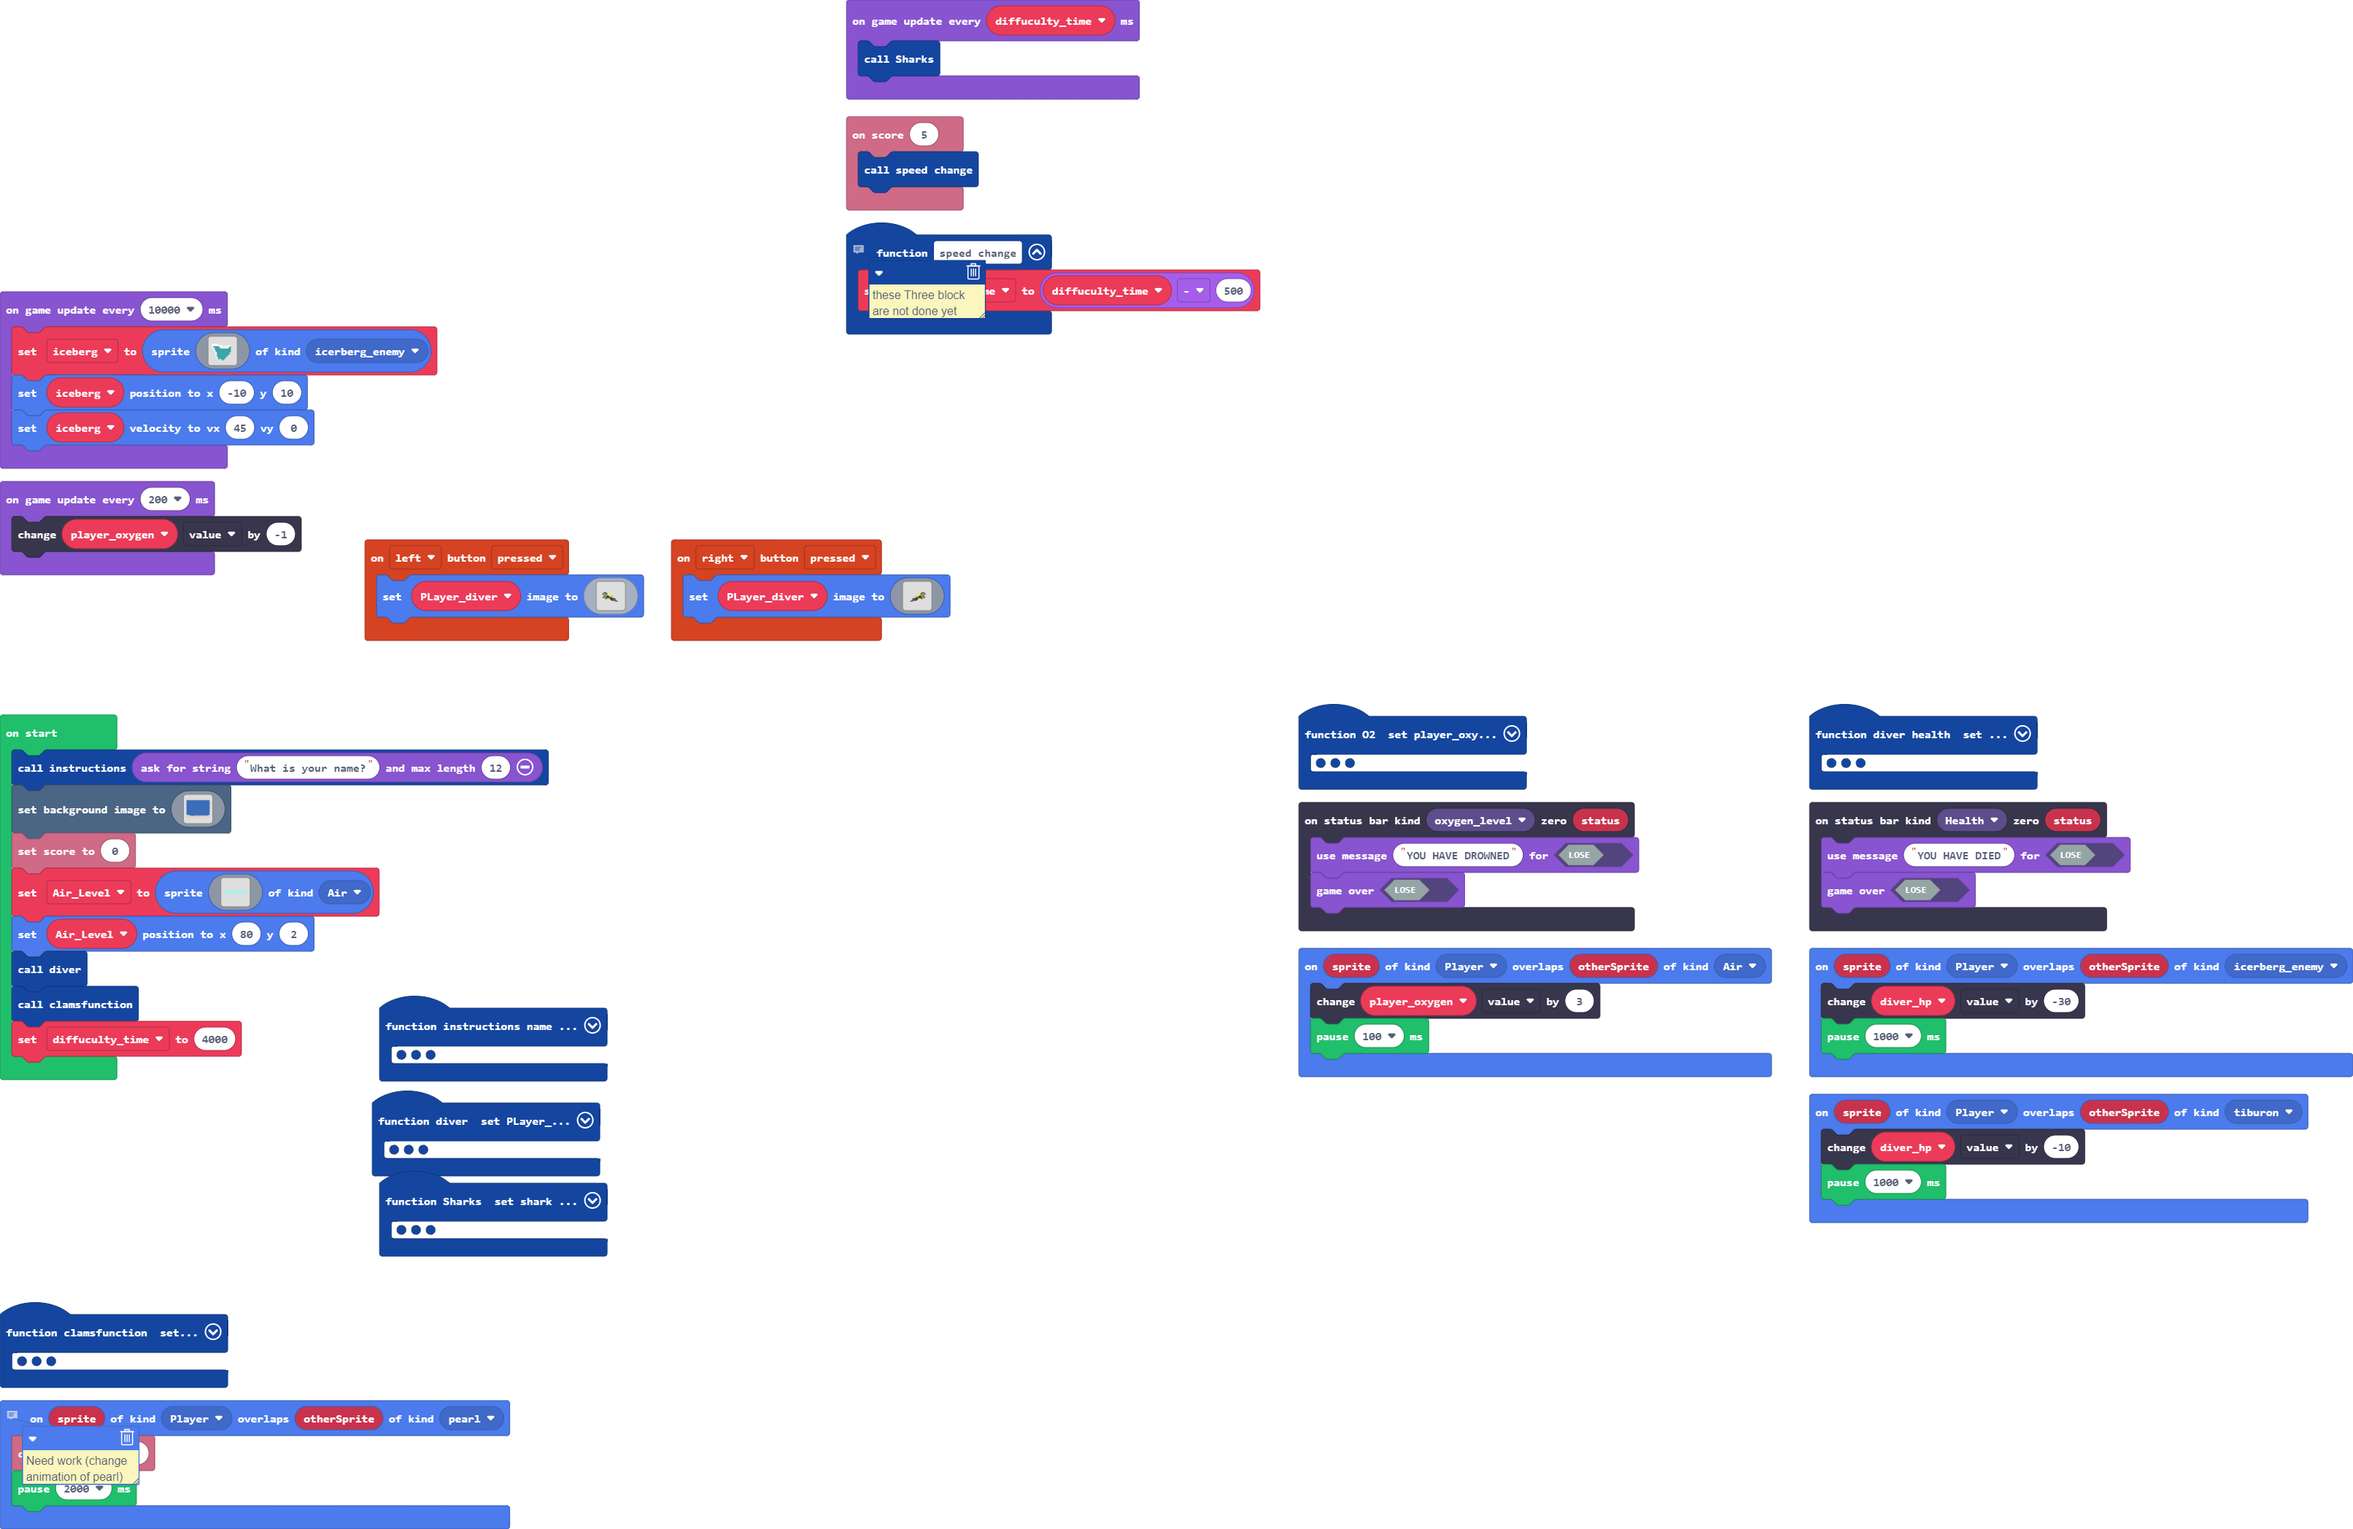
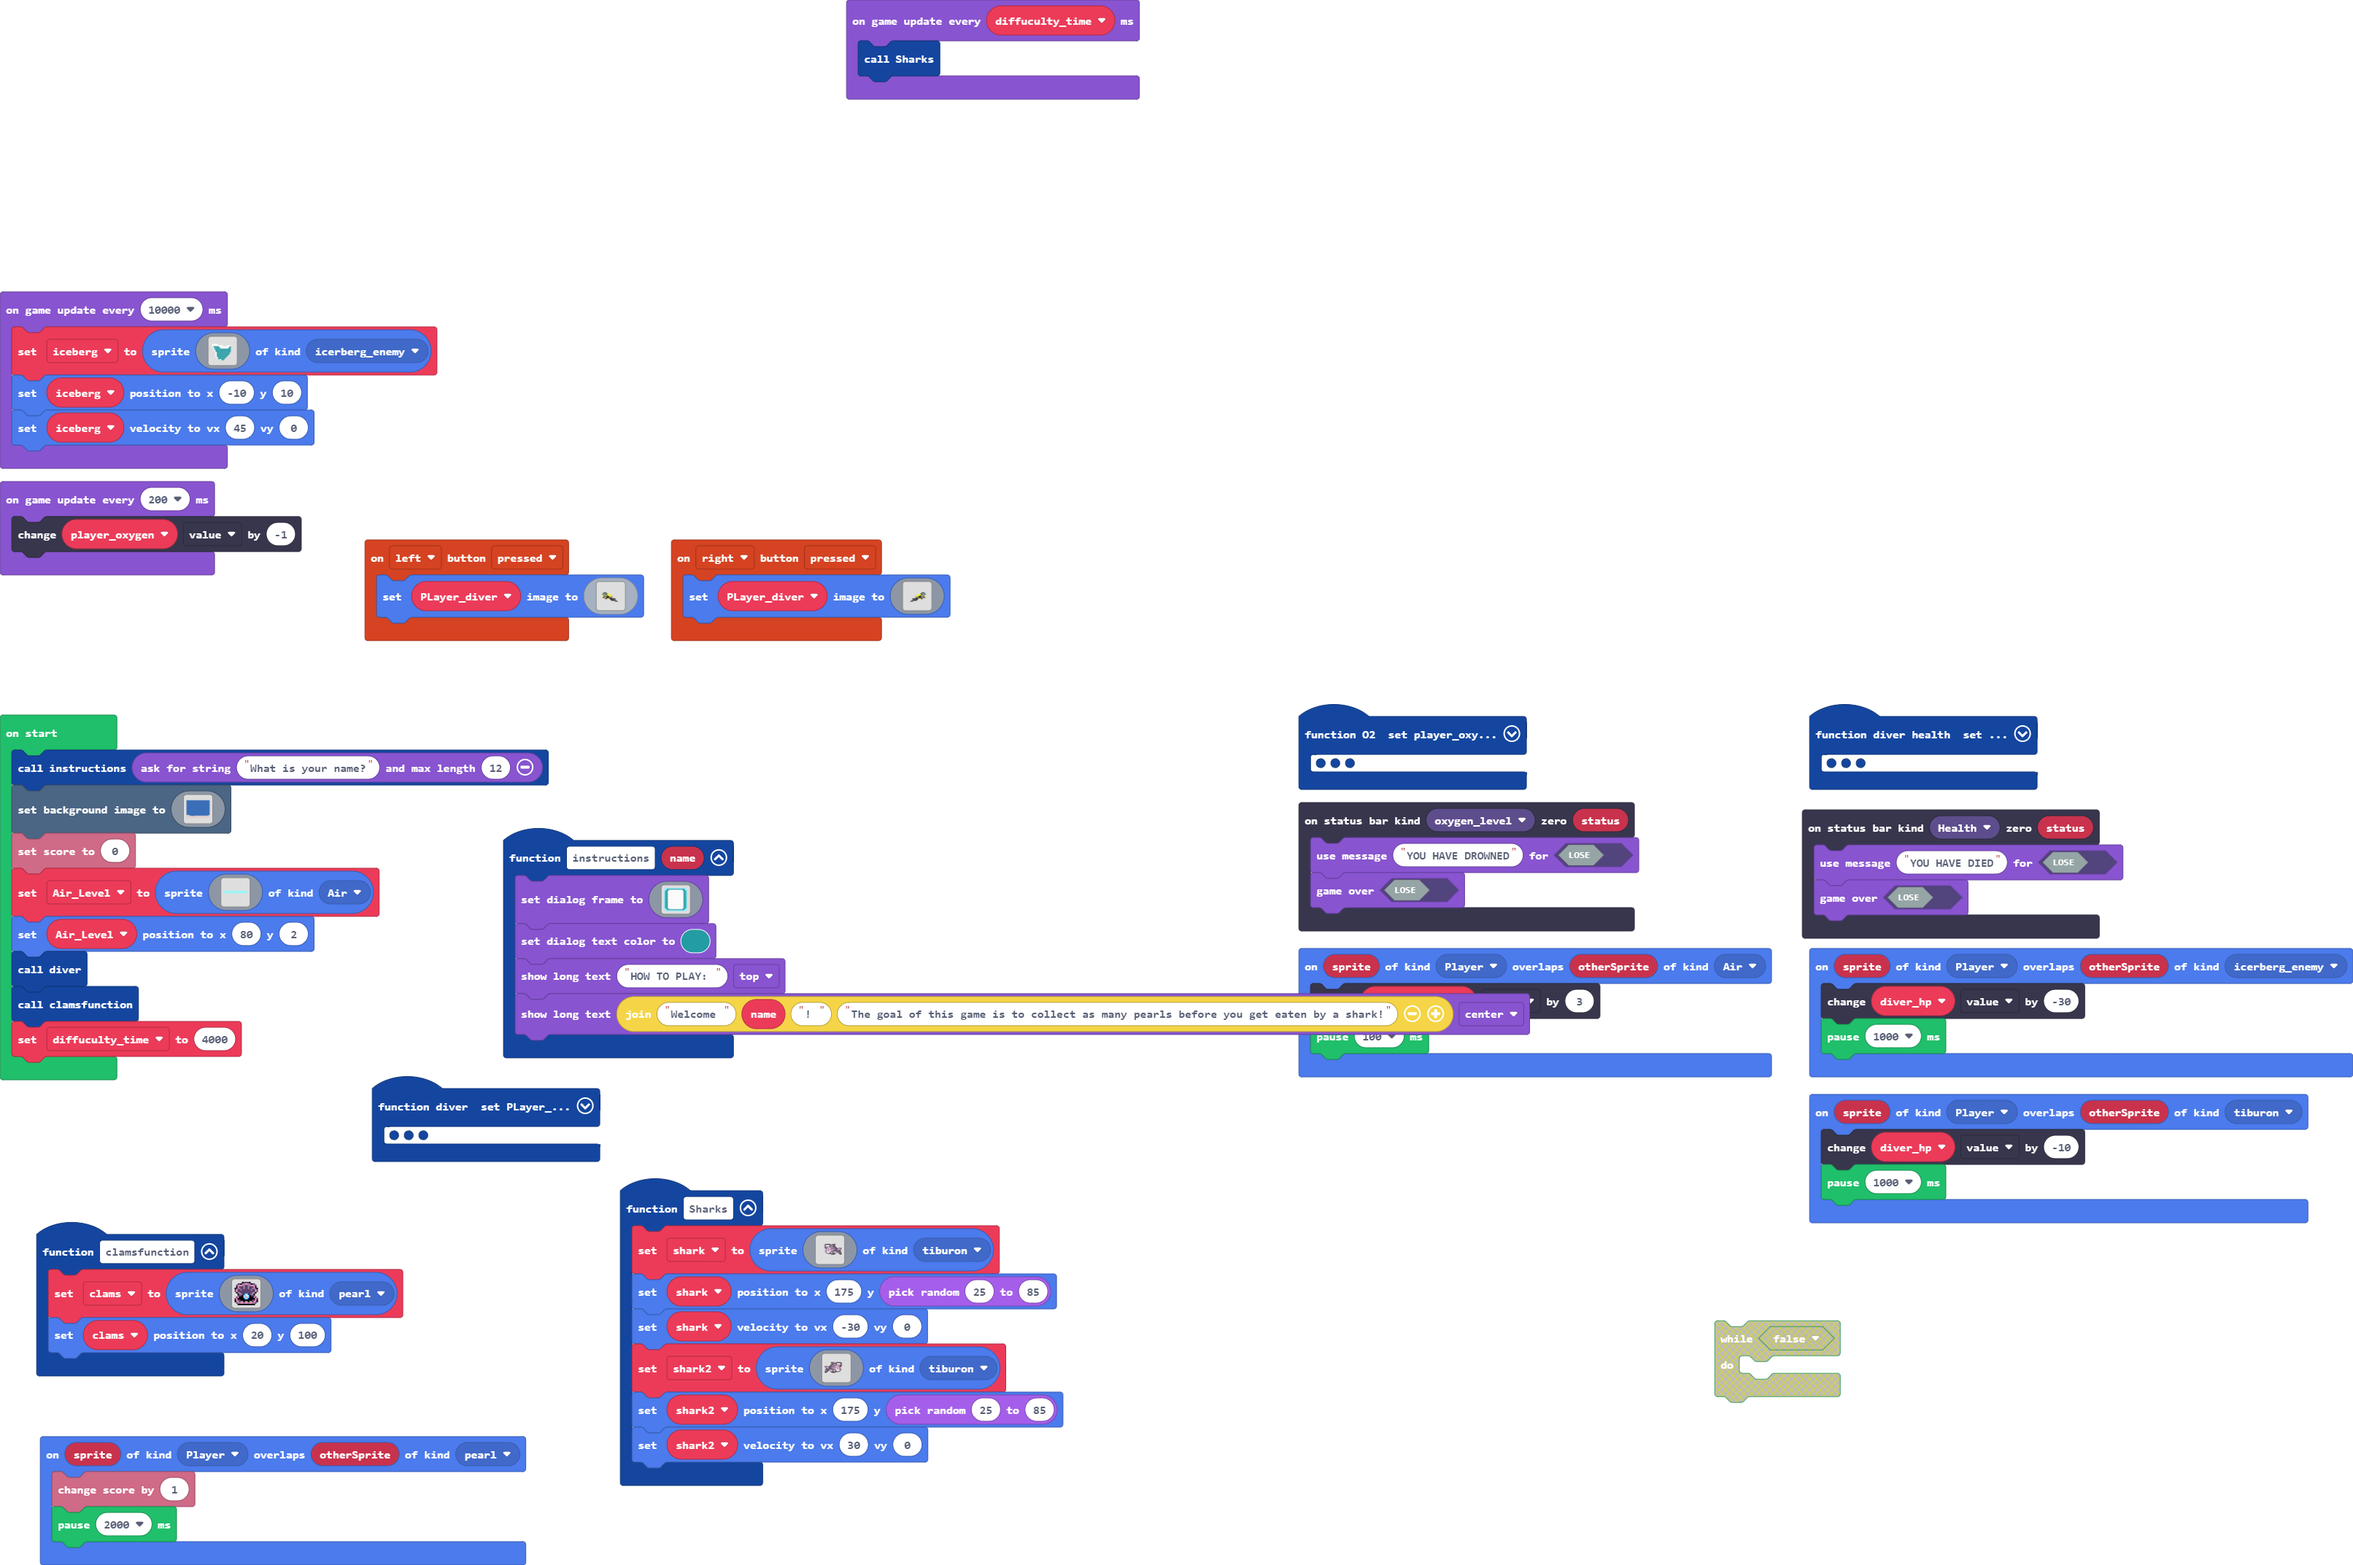
Update main.blocks, main.ts

diff --git a/main.ts b/main.ts
@@ -28,6 +28,26 @@ function Sharks () {
         `, SpriteKind.tiburon)
     shark.setPosition(175, randint(25, 85))
     shark.setVelocity(-30, 0)
+    shark2 = sprites.create(img`
+        ..........fffcc...fffffff...........
+        ..........fbbbbcffbbbbbbbf..........
+        ...........fbffbbbbb111bbf..........
+        ...........ffbbbbff11111bf..........
+        .........ffcbbbbbff1cccc1f..........
+        ........fcccbcbcbb1c1c1cff..........
+        ccccc..fcccbcbcbbb1333ccf...........
+        cbbddcfccccbcbcbbb1c333c............
+        .ccbddcccccbbbbbbb1c333c............
+        ..ccbbccccccbbbbb11c333c............
+        ..fccbfccccccbbbb11c133cc...........
+        ..fccfcbbcccccbbbc11c31cc...........
+        .fcbbf.cdddddfbbbc111111c...........
+        .fbbf...cdddfbbdbf1111cc............
+        fbbf.....ccfbbdbfffccc..............
+        fff........fffff....................
+        `, SpriteKind.tiburon)
+    shark2.setPosition(175, randint(25, 85))
+    shark2.setVelocity(30, 0)
 }
 sprites.onOverlap(SpriteKind.Player, SpriteKind.tiburon, function (sprite, otherSprite) {
     diver_hp.value += -10
@@ -70,7 +90,6 @@ function instructions (name: string) {
     game.showLongText("HOW TO PLAY: ", DialogLayout.Top)
     game.showLongText("Welcome " + name + "! " + "The goal of this game is to collect as many pearls before you get eaten by a shark!", DialogLayout.Center)
 }
-// Need work (change animation of pearl)
 sprites.onOverlap(SpriteKind.Player, SpriteKind.pearl, function (sprite, otherSprite) {
     info.changeScoreBy(1)
     pause(2000)
@@ -103,10 +122,6 @@ sprites.onOverlap(SpriteKind.Player, SpriteKind.icerberg_enemy, function (sprite
 controller.right.onEvent(ControllerButtonEvent.Pressed, function () {
     PLayer_diver.setImage(assets.image`Diver2`)
 })
-// these Three block are not done yet
-function speed_change () {
-    diffuculty_time = diffuculty_time - 500
-}
 statusbars.onZero(StatusBarKind.oxygen_level, function (status) {
     game.setGameOverMessage(false, "YOU HAVE DROWNED")
     game.gameOver(false)
@@ -114,9 +129,6 @@ statusbars.onZero(StatusBarKind.oxygen_level, function (status) {
 sprites.onOverlap(SpriteKind.Player, SpriteKind.Air, function (sprite, otherSprite) {
     player_oxygen.value += 3
     pause(100)
-})
-info.onScore(5, function () {
-    speed_change()
 })
 function clamsfunction () {
     clams = sprites.create(img`
@@ -144,8 +156,8 @@ let clams: Sprite = null
 let player_oxygen: StatusBarSprite = null
 let PLayer_diver: Sprite = null
 let diver_hp: StatusBarSprite = null
+let shark2: Sprite = null
 let shark: Sprite = null
-let diffuculty_time = 0
 instructions(game.askForString("What is your name?", 12))
 scene.setBackgroundImage(img`
     8888888888888888888888888888888888888888888888888888888888888888888888888888888888888888888888888888888888888888888888888888888888888888888888888888888888888888
@@ -290,7 +302,7 @@ let Air_Level = sprites.create(img`
 Air_Level.setPosition(80, 2)
 diver()
 clamsfunction()
-diffuculty_time = 4000
+let diffuculty_time = 4000
 game.onUpdateInterval(diffuculty_time, function () {
     Sharks()
 })
